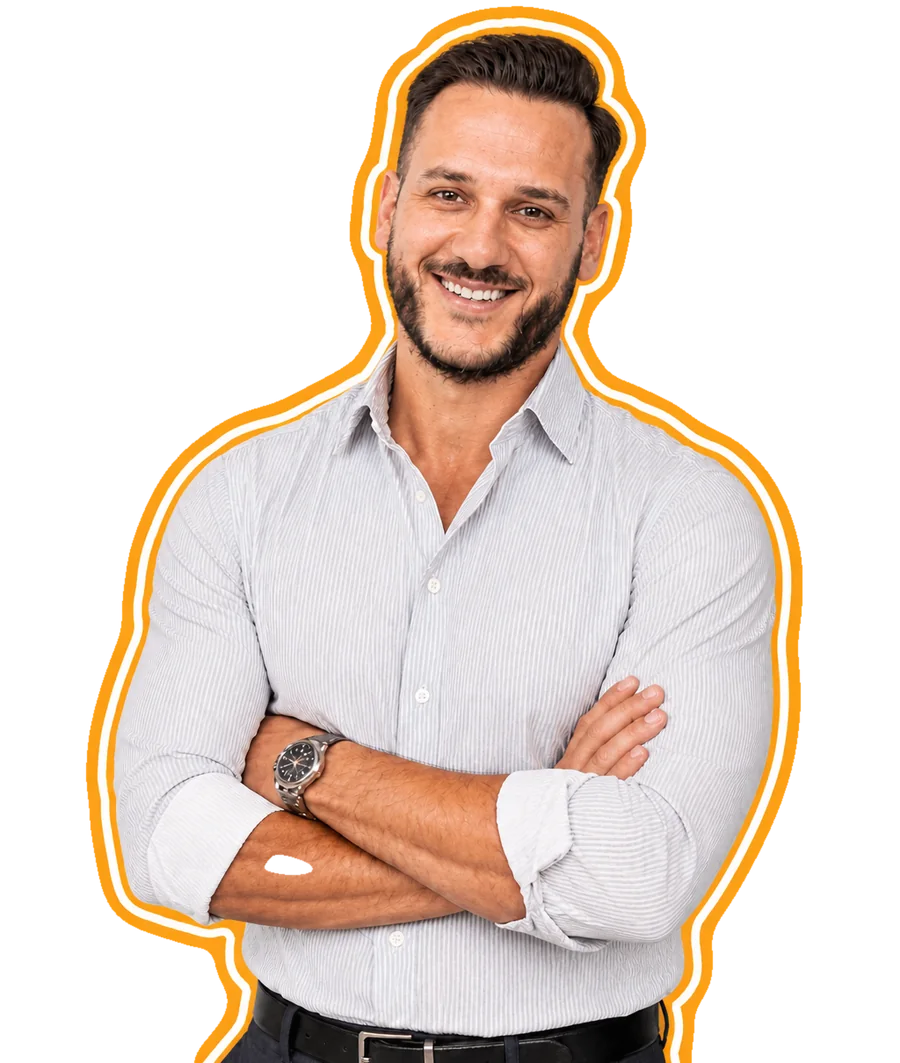
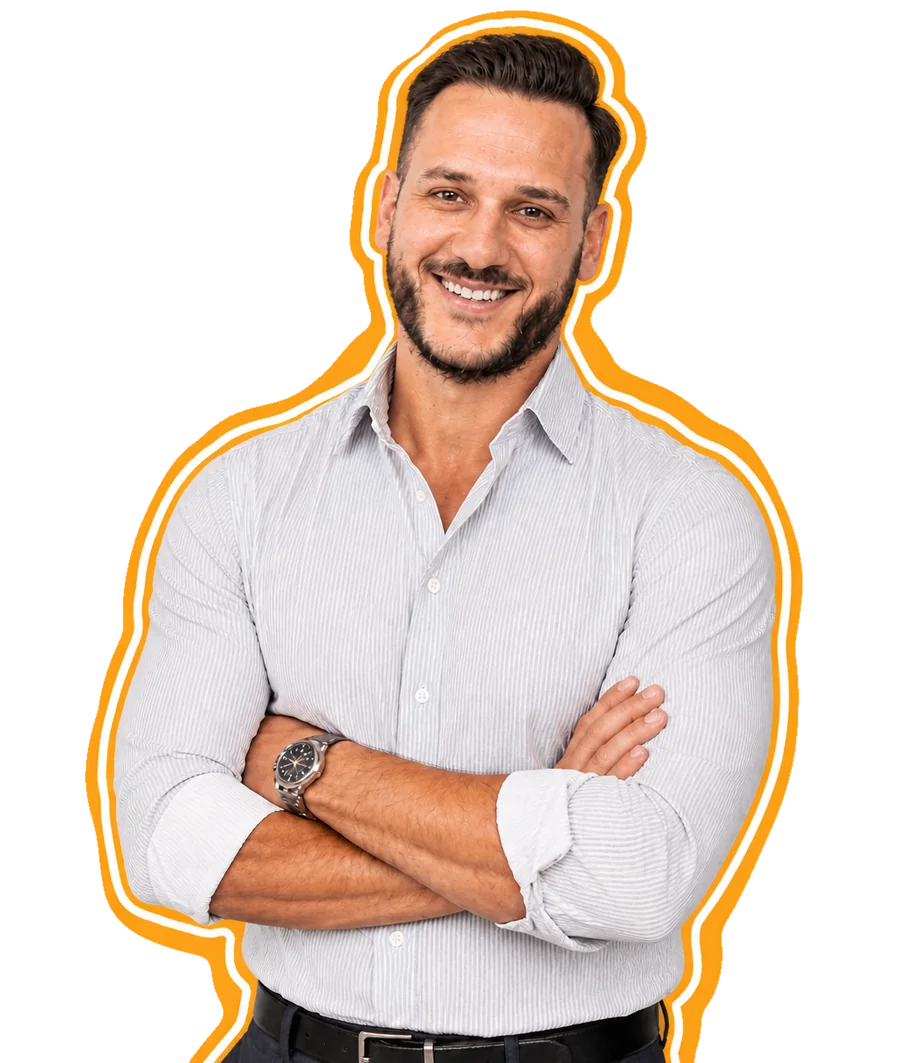
Blog und FAQ mit Foto-Grund, Glow verstaerkt, Loch im Arm behoben
Foto als Grund fuer .blog und .faq. Die Regel steht BEWUSST am
Dateiende: .blog ist zweimal definiert, bei gleicher Spezifitaet
gewinnt die spaetere - eine Aenderung an der ersten waere wirkungslos
geblieben. Heller Schleier darueber, weil die Kopfzeile direkt auf der
Flaeche steht; die Karten bringen ihren eigenen Grund mit.
Bild von 1,8 MB auf 134 KB gebracht (1600 px, JPEG q80).

Glow deutlich verstaerkt und mit positivem Spread. Er sass zuvor auf
der Karte mit backdrop-filter und liegt jetzt auf .erst dahinter.
Korrektur einer eigenen Fehlmessung: mein Ausschnitt wurde bei x=0
gekappt, wodurch ich INNERHALB der Karte gemessen und daraus
"wird nicht gezeichnet" geschlossen habe.

Loch im Unterarm behoben: es stammte von der Ringverduennung ueber
FARBE - sonnenbeschienene Haut fiel in den Amber-Bereich. Jetzt rein
geometrisch geschrumpft, 0 Loecher, Ringbreite 1,69 Prozent.

diff --git a/stil.css b/stil.css
@@ -3414,6 +3414,11 @@ body.langtakt .preis__neu{font-size:1em;opacity:1}
    1324,8 px Inhaltsbreite bereit (1440 minus zweimal 57,6 px
    Sektionspolster), das Raster nutzt davon 1060. */
 .erst{max-width:min(var(--maxw),1280px);
+  border-radius:var(--r-seite);
+  box-shadow:0 0 30px 2px rgb(255 190 80 / .85),
+    0 0 90px 10px rgb(245 165 36 / .8),
+    0 0 180px 30px rgb(245 165 36 / .55),
+    0 40px 90px -30px rgb(0 0 0 / .6);
   margin:clamp(96px,8.6vw,158px) auto 0}
 
 /* KEIN overflow:hidden. Genau das wuerde den Ueberstand des Motivs
@@ -3445,9 +3450,10 @@ body.langtakt .preis__neu{font-size:1em;opacity:1}
       rgb(245 243 239 / .68) 100%);
   -webkit-backdrop-filter:blur(22px) saturate(1.4);
   backdrop-filter:blur(22px) saturate(1.4);
-  box-shadow:0 0 44px -8px rgb(245 165 36 / .55),
-    0 0 130px -12px rgb(245 165 36 / .62),
-    0 40px 90px -30px rgb(0 0 0 / .68)}
+  /* Der Schein sitzt NICHT hier: eine Karte mit backdrop-filter
+     zeichnet ihren aeusseren Schatten nicht mehr. Gemessen ueber eine
+     Vorher-Nachher-Differenz: 0,00 Unterschied an der Kante. Er liegt
+     jetzt auf .erst, der Huelle dahinter. */}
 .erst__text{display:flex;flex-direction:column;gap:clamp(8px,.8vw,13px);min-width:0}
 /* Offener Akzent statt --violett-tief: hier liegt die Marke auf einer
    nahezu weissen Flaeche und darf die Markenfarbe selbst tragen. */
@@ -4117,3 +4123,15 @@ body.langtakt .preis__neu{font-size:1em;opacity:1}
   .pro__raster{grid-template-columns:minmax(0,1fr)}
   .pk{aspect-ratio:16/12}
 }
+
+
+/* 20.09.2026, Auftraggeber: dieses Foto als Grund fuer Blog und FAQ.
+   BEWUSST am Dateiende: .blog ist zweimal definiert (3511 und 3629);
+   bei gleicher Spezifitaet gewinnt die spaetere, eine Aenderung an der
+   ersten waere wirkungslos geblieben. Der helle Schleier darueber ist
+   kein Geschmack, sondern Lesbarkeit: die Kopfzeile steht direkt auf
+   der Flaeche, die Karten bringen ihren eigenen Grund mit. */
+.blog,.faq{
+  background:
+    linear-gradient(rgb(255 255 255 / .82), rgb(255 255 255 / .86)),
+    url("bilder/blog-grund.jpg") center/cover no-repeat}
